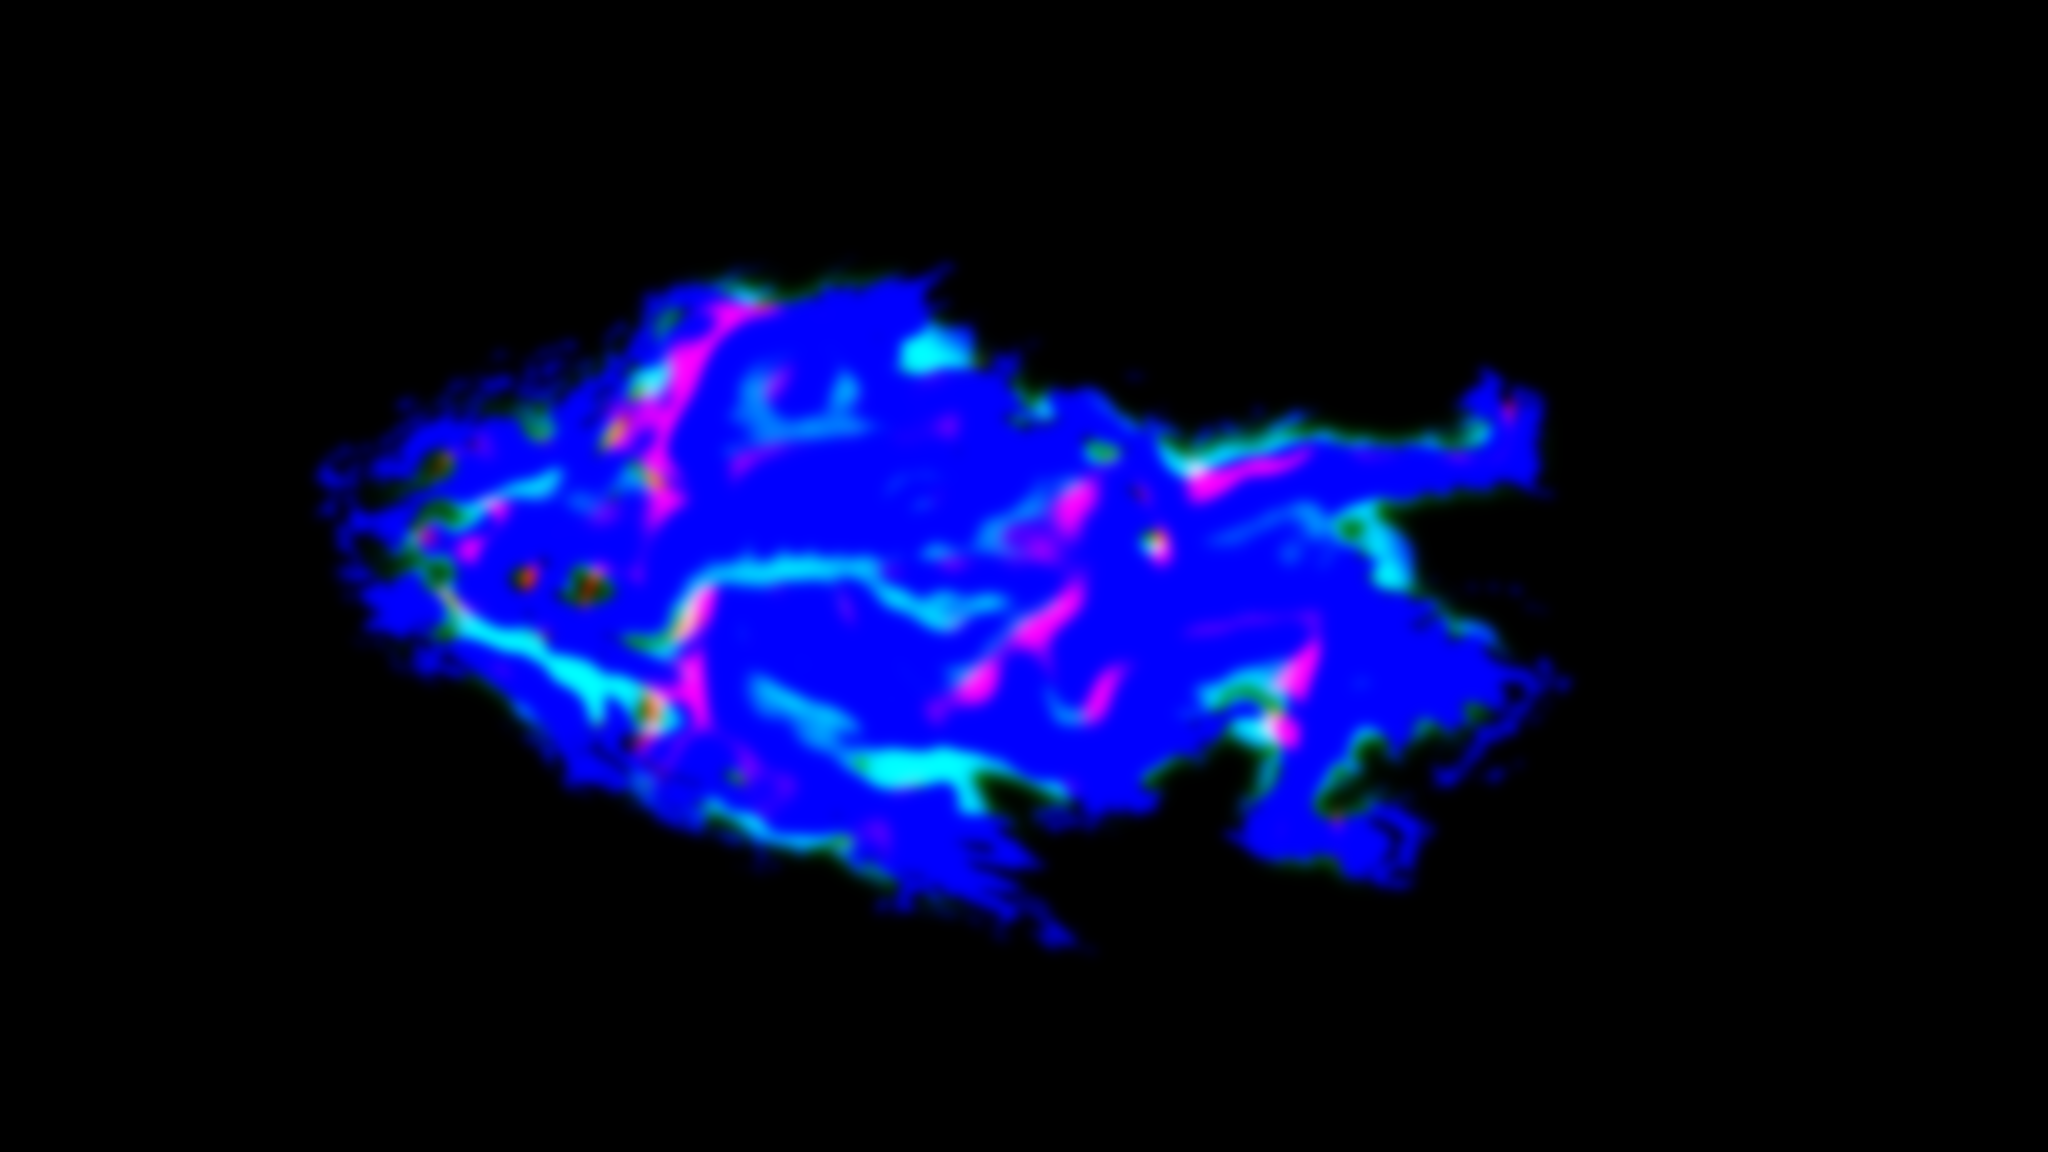
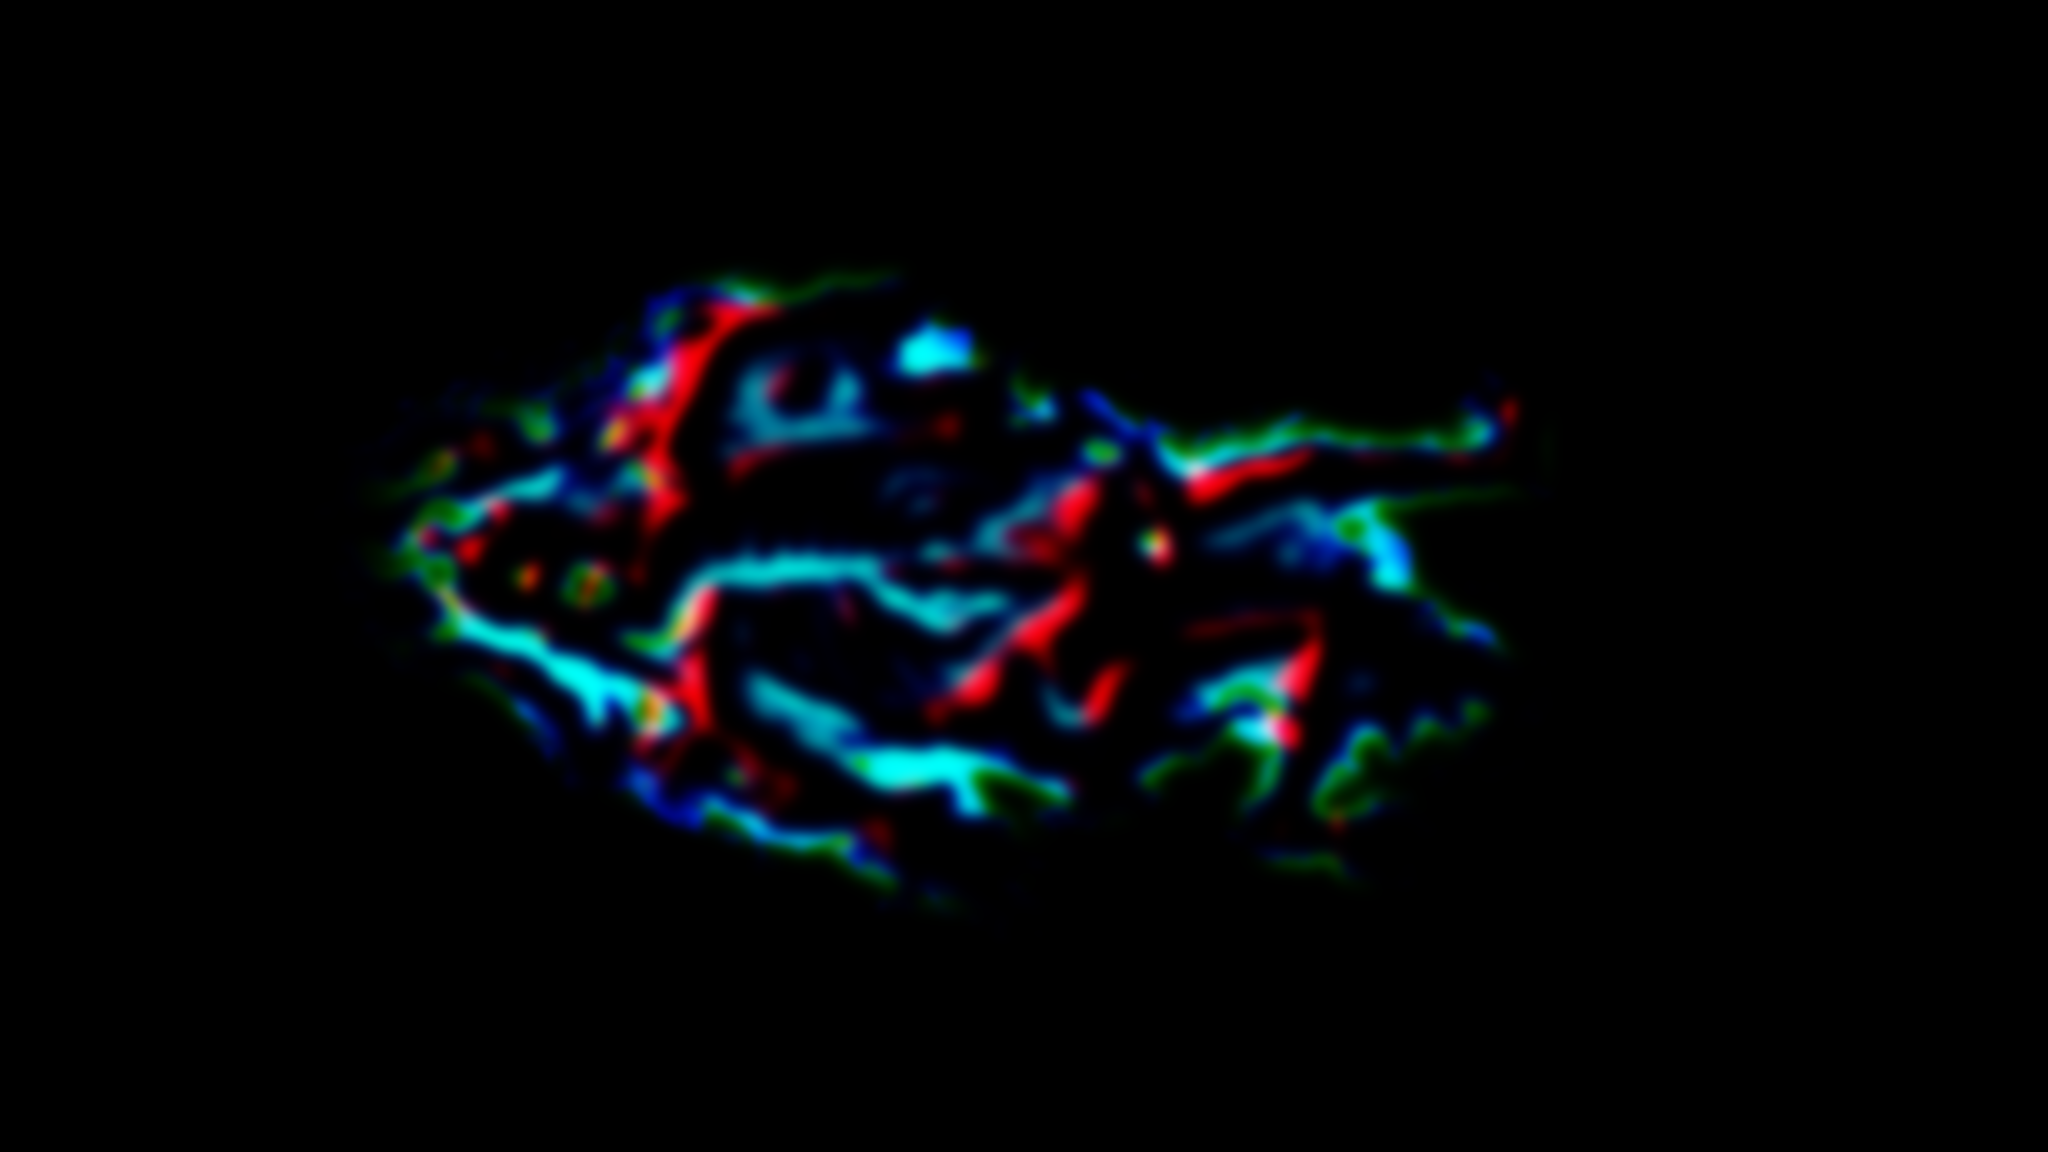
Reveal sky: the limb in layers and the air along the slant, haze pooled over low ground, the low air gold over the sun's image

Changed region(s): [[0.1562, 0.2188, 0.7812, 0.8438]]

diff --git a/src/places/reveal/sky/index.ts b/src/places/reveal/sky/index.ts
@@ -29,6 +29,13 @@ vec3 beatOnCloud(vec2 xz) {
   if (uDusk > 0.0) return vec3(1.0, 0.2, 0.04) * (0.3 * max(uBeat - 0.12, 0.0) + uEmber.x * 0.012 * (0.4 + 1.6 * uBeat) * (1.0 + emberWork())) * exp(-dot(fromHeart, fromHeart) / 90000.0);
   return vec3(1.0, 0.2, 0.04) * 0.3 * max(uBeat - 0.12, 0.0) * exp(-dot(fromHeart, fromHeart) / 90000.0);
 }
+// How much air lies between a cloud top and the eye: one over the cosine of the slant, to the thirty fold of the very edge of the
+// planet, where the cloud is lost in the haze it is seen along.
+float airPath(float mu) {
+  float path = 1.0 / sqrt(mu * mu + 0.0009);
+  float beyond = max(path - 1.5, 0.0);
+  return 0.008 * path + 0.0006 * beyond * beyond;
+}
 vec3 cloudLight(vec2 xz, float facing, float thick, float high) {
   float mu = limbCos(xz);
   float day = dayAt(xz);
@@ -39,12 +46,12 @@ vec3 cloudLight(vec2 xz, float facing, float thick, float high) {
     float low = mix(uSunDir.y, 0.2 + 0.62 * max(sunH, 0.0), uTerm.w);
     vec3 lit = sunLightAt(sunH, day) * low * (0.3 + 1.3 * clamp(facing, 0.0, 1.0)) * (0.5 + 0.5 * thick);
     vec3 cDusk = 0.72 * (lit + uSkyColour * 0.9 * skyLightAt(sunH, day) + moonAt(sunH) * (0.1 + 0.26 * clamp(facing, 0.0, 1.0)) * (0.5 + 0.5 * thick)) / 3.14159;
-    float airDusk = 1.0 - exp(-0.008 * (1.0 - 0.6 * high) / max(mu, 0.12));
+    float airDusk = 1.0 - exp(-airPath(mu) * (1.0 - 0.6 * high));
     return exposed(mix(cDusk, uAirColour * 0.7 * airLightAt(sunH), airDusk));
   }
   float sun = uSunDir.y * (0.3 + 1.3 * clamp(facing, 0.0, 1.0)) * (0.5 + 0.5 * thick) * day;
   vec3 c = 0.72 * (uSunColour * mix(vec3(1.0, 0.8, 0.62), vec3(1.0), day) * sun + uSkyColour * 0.9 * (0.5 + 0.5 * day)) / 3.14159;
-  float air = 1.0 - exp(-0.008 * (1.0 - 0.6 * high) / max(mu, 0.12));
+  float air = 1.0 - exp(-airPath(mu) * (1.0 - 0.6 * high));
   return mix(c, uAirColour * 0.7, air);
 }`;
 
@@ -86,6 +93,23 @@ void main() {
   vec3 bankColour = cloudLight(bankAt, 0.12 + 0.95 * bankSelf, 0.35 + 0.65 * bankA, 0.25) * (0.72 + 0.5 * clamp(bankIs / 3.5, 0.0, 1.0));
   // (Fog is seen from above as a level pale floor, a little blue, with no relief of its own.)
   vec3 fogColour = cloudLight(fogAt, 0.5, 0.5, 0.0) * vec3(0.84, 0.9, 0.98);
+  // The air that lies on the ground, under every cloud. Haze pools over the low land, pale and a little blue, seen from high up.
+  float hazeA = 0.2 * hazeAt(fogAt) * smoothstep(150.0, 500.0, uViewKm) * uArrive;
+  vec3 hazeColour = cloudLight(fogAt, 0.5, 0.3, 0.0) * vec3(0.5, 0.6, 0.74);
+  // And over the sun's image on the sea the low air is lit from behind: it scatters the sun forward, warm, so the sheet of light
+  // is gold through it and not the white of the bare glitter.
+  float image = sunImage(fogAt);
+  float goldA = 0.7 * smoothstep(0.05, 0.7, image) * uArrive;
+  vec3 gold = uSunColour * vec3(1.0, 0.8, 0.52) * (0.08 + 0.34 * image);
+  if (uDusk > 0.0) {
+    gold = exposed(gold * sunTint(max(uSunDir.y, 0.0)));
+    goldA *= uCalm.z;
+  }
+  float groundA = 1.0 - (1.0 - hazeA) * (1.0 - goldA);
+  if (groundA > 0.0) {
+    fogColour = (fogColour * fogA + (hazeColour * hazeA * (1.0 - goldA) + gold * goldA) * (1.0 - fogA)) / max(1.0 - (1.0 - fogA) * (1.0 - groundA), 1e-4);
+    fogA = 1.0 - (1.0 - fogA) * (1.0 - groundA);
+  }
   // (Against the sun's image on the sea a cloud is seen dark: its lit top is dimmer than the sheet of light under it.)
   vec2 sunOnSea = (xz - vec2(${X(5875).toFixed(1)}, ${Z(703).toFixed(1)}) - (uTime - 8.1) * vec2(-9.0, -8.0)) * vec2(1.0, 0.48);
   if (uLive > 0.0) sunOnSea -= uLive * vec2(-20.0, 0.0) * vec2(1.0, 0.48);
@@ -343,8 +367,11 @@ void main() {
   if (uWhich < 0.5) {
     // space: the black beyond the edge, the last of the air against it, and the stars
     float a = smoothstep(-3.0, 3.0, km);
-    float outer = exp(-max(km, 0.0) / 26.0);
-    vec3 glow = mix(vec3(0.05, 0.17, 0.55), vec3(0.4, 0.64, 1.0), outer * outer) * outer * 0.5;
+    // (The air stands in layers, each thinner and bluer than the one under it: the pale weather layer is a line a few kilometres
+    // deep against the planet, the clear blue above it reaches some tens of kilometres, and the last thin air fades into the black
+    // over a hundred.)
+    float up = max(km, 0.0);
+    vec3 glow = vec3(0.5, 0.7, 1.0) * 0.36 * exp(-up / 7.0) + vec3(0.1, 0.3, 0.9) * 0.2 * exp(-up / 20.0) + vec3(0.02, 0.06, 0.3) * 0.1 * exp(-up / 60.0);
     vec2 cell = floor(vWorld.xz / 40.0);
     vec2 within = fract(vWorld.xz / 40.0) - 0.5;
     float pick = hash12(cell);
@@ -371,10 +398,16 @@ void main() {
     gl_FragColor = vec4(colour * (1.0 - uSolo), a * (1.0 - uSolo));
     return;
   }
-  float inner = exp(min(km, 0.0) / 150.0) * 0.5 + exp(min(km, 0.0) / 30.0) * 0.5;
-  float band = km < 0.0 ? inner : 0.0;
-  vec3 blue = mix(vec3(0.06, 0.2, 0.62), vec3(0.42, 0.66, 1.0), band * band);
-  vec3 colour = blue * band * 0.5;
+  // Inside the edge the eye looks along the air, not down through it: how much air the ray crosses is one over the cosine of its
+  // slant, and at the very edge, where the planet curves away under it, some thirty times the air straight down. The clear air
+  // scatters blue all the way in; the pale haze of the lowest air is seen only edge on, as a band against the edge.
+  float mu = sqrt(max(1.0 - d * d, 0.0));
+  float path = 1.0 / sqrt(mu * mu + 0.0009);
+  // (Where this sheet begins the air it adds is nothing: the ground and the cloud carry their own air up to there.)
+  float beyond = max(path - 2.3, 0.0);
+  float clearAir = 1.0 - exp(-0.08 * beyond);
+  float paleAir = 1.0 - exp(-0.004 * beyond * beyond);
+  vec3 colour = km < 0.0 ? vec3(0.05, 0.17, 0.55) * 0.5 * clearAir + vec3(0.42, 0.6, 0.8) * 0.5 * paleAir : vec3(0.0);
   if (uDusk > 0.0) {
     float sunH = sunHeight(vWorld.xz) + uTerm.w * 0.05;
     vec3 arc = mix(vec3(1.0), mix(vec3(1.25, 0.5, 0.16), vec3(0.75, 0.85, 1.1), sunSeen(sunH - 0.12)) * sunSeen(sunH - 0.03) + 0.04 * skySeen(sunH), uTerm.w);

diff --git a/src/places/reveal/shared/weather.ts b/src/places/reveal/shared/weather.ts
@@ -283,6 +283,16 @@ float fogDepth(vec2 fogAt) {
   return held * today * clear * (0.3 + 0.9 * veil) * 1.5 - 0.5;
 }
 
+// The haze that pools over low ground (sky/banks.png, blue): 0 to 1. It lies in the plains and on the wide valley floors and the
+// ranges stand out of it; it is thicker on some days' reaches than on others, and has no edge.
+float hazeAt(vec2 xz) {
+  float pooled = texture2D(uBanks, clamp((xz - uCoverRect.xy) * uCoverRect.zw, 0.0, 1.0)).b;
+  if (pooled <= 0.004) return 0.0;
+  vec2 w = xz - uTime * vec2(0.5, -0.3);
+  if (uLive > 0.0) w -= uWx * vec2(2.0, -1.2);
+  return pooled * (0.45 + 0.55 * smoothstep(0.3, 0.62, texture2D(uCloudTile, w / 2300.0 + vec2(0.27, 0.59), 3.0).b));
+}
+
 // The share of the sun that reaches a point of the ground under the cloud. Each height of cloud throws its own shadow, as far from
 // itself as it stands high, so the shadow of the ice lies well off the shadow of the puffs under it.
 float cloudShade(vec2 xz) {

diff --git a/assets-src/reveal/sky/make_banks.py b/assets-src/reveal/sky/make_banks.py
@@ -5,7 +5,7 @@ src/places/reveal/shared/weather.ts (the same rectangle as cover.png).
   red    banks: where the wind of the low field (from the left of the master, a little down) is lifted by a range, cloud piles on
          the flank that faces it and thins over the crest
   green  fog: the low floors between ranges, shut in by high ground on two sides, where cold air lies
-  blue   the land, read soft: for the haze that pools over lowland
+  blue   haze: the low ground, plains and wide valley floors, read wide and soft, where haze pools under the ranges
 
 It is read from the relief of the widest map of the land (public/assets/reveal/land/relief-a.png, blue: the height). Nothing random.
 Run: python3 assets-src/reveal/sky/make_banks.py   (Python 3 with numpy, scipy and Pillow)
@@ -70,7 +70,11 @@ near = ndimage.gaussian_filter(high, 9)
 fog = step(0.015, 0.07, wide - near) * step(0.05, 0.2, wide) * ndimage.gaussian_filter(land, 8) * (1.0 - step(0.2, 0.4, near))
 fog = ndimage.gaussian_filter(fog, 6)
 
-soft = ndimage.gaussian_filter(land, 6)
+# Haze: it pools over the low ground, the plains and the floors of the wide valleys, and the ranges stand up out of it. Read wide
+# and soft: haze has no edge.
+# (Low is told against the ground round it, as for the fog, but wider and without its limit: every floor that lies under its
+# neighbours holds some, the high plateaus none.)
+soft = ndimage.gaussian_filter(land * step(-0.01, 0.04, wide - near) * (1.0 - step(0.2, 0.45, near)), 8) * ndimage.gaussian_filter(land, 5)
 out = np.stack([bank, fog, soft], axis=-1)
 Image.fromarray((np.clip(out, 0, 1) * 255 + 0.5).astype(np.uint8), 'RGB').save(os.path.join(PUB, 'sky', 'banks.png'), optimize=True)
 print('banks.png', out.shape, 'means', out.reshape(-1, 3).mean(0).round(3))

diff --git a/assets-src/reveal/ROWS-reveal_sky_builder.md b/assets-src/reveal/ROWS-reveal_sky_builder.md
@@ -2,4 +2,4 @@
 
 | file | what | tool or model | prompt | take | date |
 | --- | --- | --- | --- | --- | --- |
-| public/assets/reveal/sky/banks.png | Where the land holds cloud, on the rectangle of the cover: red the banks on the flank of a range that faces the wind, green the fog of the wide basins, blue the land read soft. 2048 x 1152, 0.4 MB. | assets-src/reveal/sky/make_banks.py (Python 3, numpy, scipy, Pillow), from public/assets/reveal/land/relief-a.png | none: computed, no model | 1 | 2026-11-26 |
+| public/assets/reveal/sky/banks.png | Where the land holds cloud, on the rectangle of the cover: red the banks on the flank of a range that faces the wind, green the fog of the wide basins, blue the low ground where haze pools (plains and wide valley floors, soft). 2048 x 1152, 0.4 MB. Made again for the blue channel alone: red and green are unchanged to the last bit. | assets-src/reveal/sky/make_banks.py (Python 3, numpy, scipy, Pillow), from public/assets/reveal/land/relief-a.png | none: computed, no model | 2 | 2026-11-26 |
